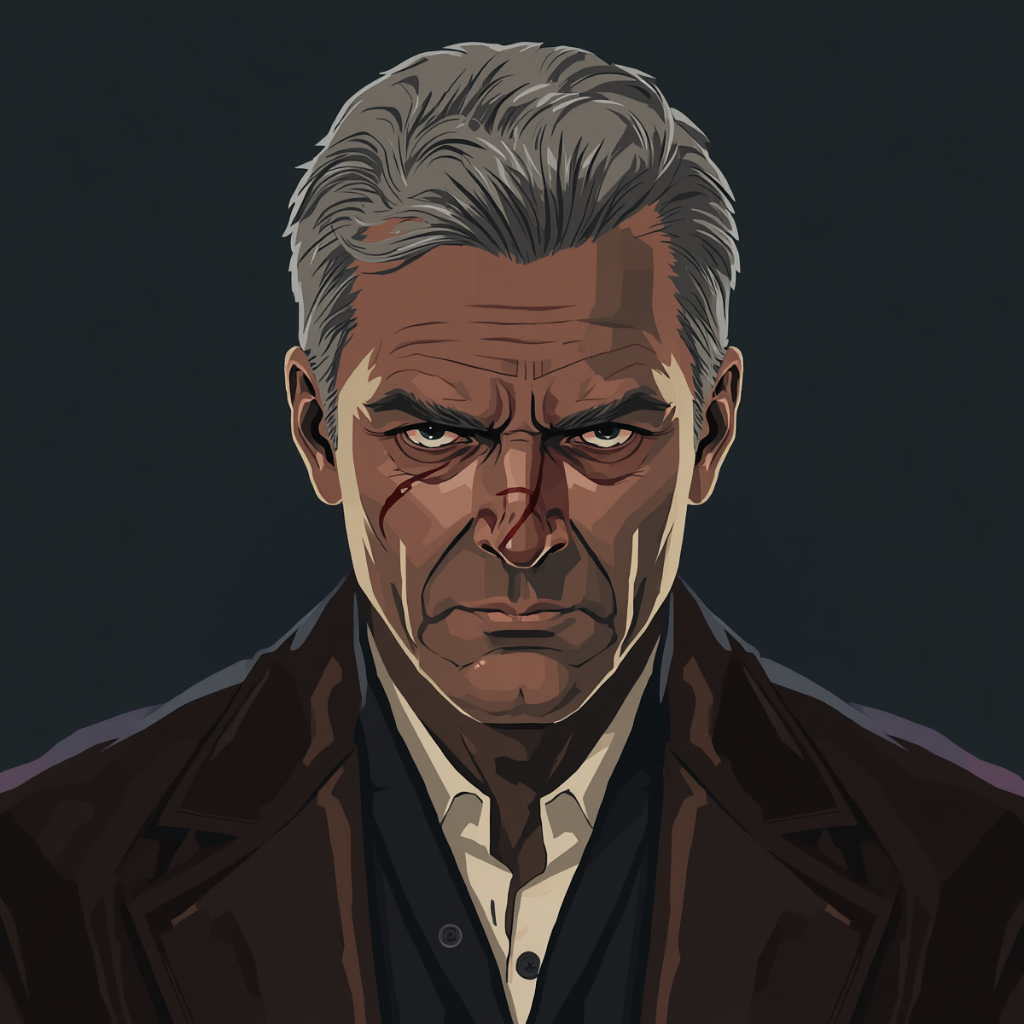
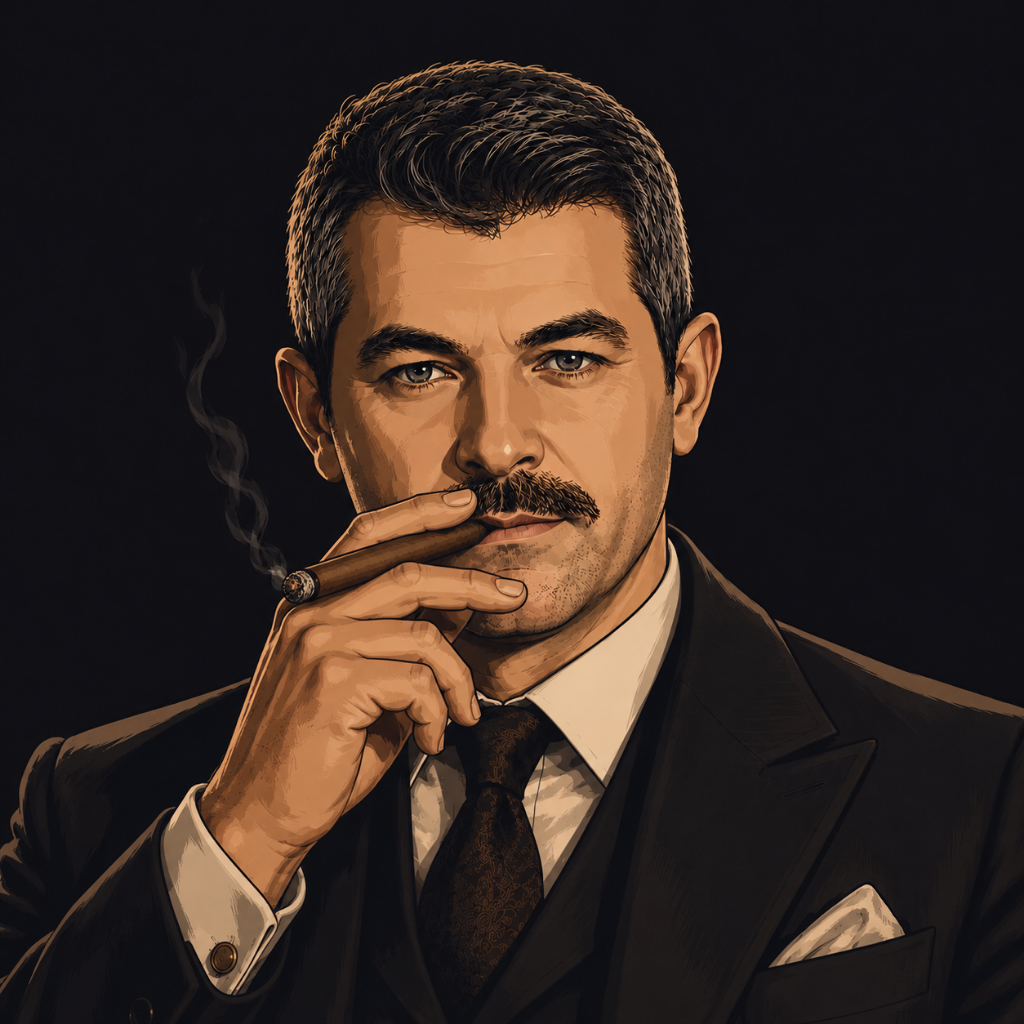
Kendi görselimde oyunda

diff --git a/src/game/aiStandard.js b/src/game/aiStandard.js
@@ -20,6 +20,7 @@ import {
   applyStandardShift,
   applyStandardInspectorPickIdentity,
   applyStandardSolve,
+  applyStandardPass,
 } from './actionsStandard.js';
 import { DIFFICULTY } from './ai.js'; // Zorluk profilleri klasikle aynı
 
@@ -72,6 +73,21 @@ function crimeAdjacency(target, killSites) {
     if (dr <= 1 && dc <= 1 && (dr + dc > 0)) n++;
   }
   return n;
+}
+
+// Bir karakteri (örn. masum işaretli bir kartı) öldürmenin dedektif aday havuzunu
+// ne kadar iyi böleceğini ölçer. İdeal durum: komdu kümesi mevcut adayların
+// yaklaşık yarısını kapsıyorsa (hangi sonuç çıkarsa çıksın havuz ciddi daralır).
+// Komdu kümesi boşsa ya da tüm adayları kapsıyorsa, sonuç hemen hemen bilgisizdir.
+function killInfoSplitValue(board, suspectId, inspectorCandidates) {
+  if (!inspectorCandidates || inspectorCandidates.size === 0) return 0;
+  const neighborIds = new Set(getAliveNeighborsOfSuspect(board, suspectId).map((n) => n.cell.suspectId));
+  let overlap = 0;
+  for (const id of inspectorCandidates) {
+    if (neighborIds.has(id)) overlap++;
+  }
+  const half = inspectorCandidates.size / 2;
+  return half - Math.abs(overlap - half); // 0 = bilgisiz, half = mükemmel ikiye bölme
 }
 
 function scoreArrestTarget(target, killSites, cfg, candidates) {
@@ -323,7 +339,8 @@ export function runStandardAiTurn(game) {
         score += inspectorCandidates.size <= 3 ? 1000 : 100;
       }
       if (publicExonerated.includes(t.suspectId)) {
-        score += 500;
+        const splitValue = killInfoSplitValue(game.board, t.suspectId, inspectorCandidates);
+        score += 500 + splitValue * 20; // masum karakteri öldürmek her zaman değerli, ama iyi bölünme sağladığında daha da değerli
       }
       const tPos = positionOf(game.board, t.suspectId);
       if (tPos && killSitesNow.length > 0) {
@@ -425,6 +442,22 @@ export function runStandardAiTurn(game) {
       const clusterGain = clusterScore - newCluster;
 
       let shiftScore = distGain * 20 + clusterGain * 12 + (Math.random() - 0.5) * 10;
+
+      // Masum işaretli (henüz öldürülmemiş) bir karakteri, öldürüldüğünde dedektif
+      // aday havuzunu iyi bölecek bir konuma getirmek için pozisyon avantajı ara.
+      // Böylece katil o karakteri hemen orada öldürmek yerine, önce daha bilgilendirici
+      // bir noktaya taşımayı tercih edebiliyor.
+      let huntExoneratedBonus = 0;
+      for (const exId of publicExonerated) {
+        if ((game.killedSuspectIds ?? []).includes(exId)) continue;
+        const exPosAfter = positionOf(tempBoard, exId);
+        if (!exPosAfter) continue;
+        if (chebyshev(newKillerPos.r, newKillerPos.c, exPosAfter.r, exPosAfter.c) === 1) {
+          const splitValue = killInfoSplitValue(tempBoard, exId, inspectorCandidates);
+          huntExoneratedBonus = Math.max(huntExoneratedBonus, splitValue * 8);
+        }
+      }
+      shiftScore += huntExoneratedBonus;
       
       // Kılık değiştirme planımız varsa, yedek kılığı merkeze çekmek harika bir hamledir
       if (shouldDisguise && !isDisguiseDead && disguisePos) {
@@ -527,7 +560,9 @@ export function runStandardAiTurn(game) {
       if (ok) return next;
     }
 
-    return game;
+    // Gerçekten hiçbir hamle mümkün değilse (öldürme yok, kaydırma yok, disguise
+    // yok/ölmüş): oyunun katil tarafında kilitlenmemesi için turu güvenle geç.
+    return applyStandardPass(game).game;
   }
 
   // ── Dedektif turu ──
@@ -582,10 +617,28 @@ export function runStandardAiTurn(game) {
 
   const isMatchPoint = deceasedCount >= STANDARD_KILLER_WIN_DEATH_COUNT - 1;
 
-  if (isMatchPoint || (shouldSolve(game, scoredTargets, cfg, deceasedCount, killerCandidates, disguiseCandidates) && scoredTargets.length)) {
-    const identityGuessId = scoredTargets.length > 0
-      ? scoredTargets[0].suspectId
-      : (Array.from(killerCandidates)[0] || pickRandom(game.board.flat().filter(c => c && c.status === 'alive').map(c => c.suspectId)));
+  if (isMatchPoint) {
+    // Maç sayısı: katil bir sonraki turda neredeyse kesin kazanacak. Dedektif
+    // MUTLAKA kararlı bir hamle yapmalı. Öncelik sırası:
+    //  1) Güvenli tutuklama — yanlış çıksa bile oyun bitmez, tur devam eder.
+    //  2) Solve — sadece net bir tutuklama adayı yoksa ya da kimlik+kılık zaten
+    //     tam olarak daralmışsa (bu durumda solve zaten neredeyse garanti doğru).
+    //     Solve yanlış çıkarsa oyun anında biter, bu yüzden son çare olarak kullanılır.
+    const confidentTop = scoredTargets.length > 0 ? scoredTargets[0] : null;
+    const hasConfidentArrest =
+      confidentTop &&
+      confidentTop.isCandidate &&
+      (isVeryNarrowed || confidentTop.score >= cfg.patternWeight * 1.2);
+
+    if (hasConfidentArrest) {
+      const { ok, game: next } = applyStandardAccuse(game, confidentTop.suspectId, game.killer.identitySuspectId, secretId);
+      if (ok) return next;
+    }
+
+    const identityGuessId =
+      confidentTop?.suspectId ??
+      Array.from(killerCandidates)[0] ??
+      pickRandom(game.board.flat().filter(c => c && c.status === 'alive').map(c => c.suspectId));
 
     if (identityGuessId) {
       const disguiseGuess = guessDisguise(game, identityGuessId, killSites, cfg, new Set([...disguiseCandidates].filter(id => id !== identityGuessId)));
@@ -593,6 +646,13 @@ export function runStandardAiTurn(game) {
         const { ok, game: next } = applyStandardSolve(game, identityGuessId, disguiseGuess);
         if (ok) return next;
       }
+    }
+  } else if (shouldSolve(game, scoredTargets, cfg, deceasedCount, killerCandidates, disguiseCandidates) && scoredTargets.length) {
+    const identityGuessId = scoredTargets[0].suspectId;
+    const disguiseGuess = guessDisguise(game, identityGuessId, killSites, cfg, new Set([...disguiseCandidates].filter(id => id !== identityGuessId)));
+    if (disguiseGuess) {
+      const { ok, game: next } = applyStandardSolve(game, identityGuessId, disguiseGuess);
+      if (ok) return next;
     }
   }
 

diff --git a/src/game/actionsStandard.js b/src/game/actionsStandard.js
@@ -350,6 +350,15 @@ export function applyStandardShift(game, axis, index, direction) {
   return { ok: true, game: next };
 }
 
+// ─── Pas geç (son çare) ───────────────────────────────────────────────────────────
+// Katilin hiçbir geçerli hamlesi (öldürme / kaydırma / kılık değiştirme) kalmadığı
+// uç durumlarda oyunun katil tarafında kilitlenmemesi için turu güvenle dedektife geçirir.
+export function applyStandardPass(game) {
+  let next = addLog(game, `⏭️ Katil hiçbir geçerli hamle yapamadı, tur geçildi.`);
+  next = advanceTurn(next);
+  return { ok: true, game: next };
+}
+
 // ─── Inspector kimlik seçimi ──────────────────────────────────────────────────
 export function applyStandardInspectorPickIdentity(game, cardSuspectId) {
   if (game.phase !== PHASE.INSPECTOR_PICK_IDENTITY) return { ok: false, game };